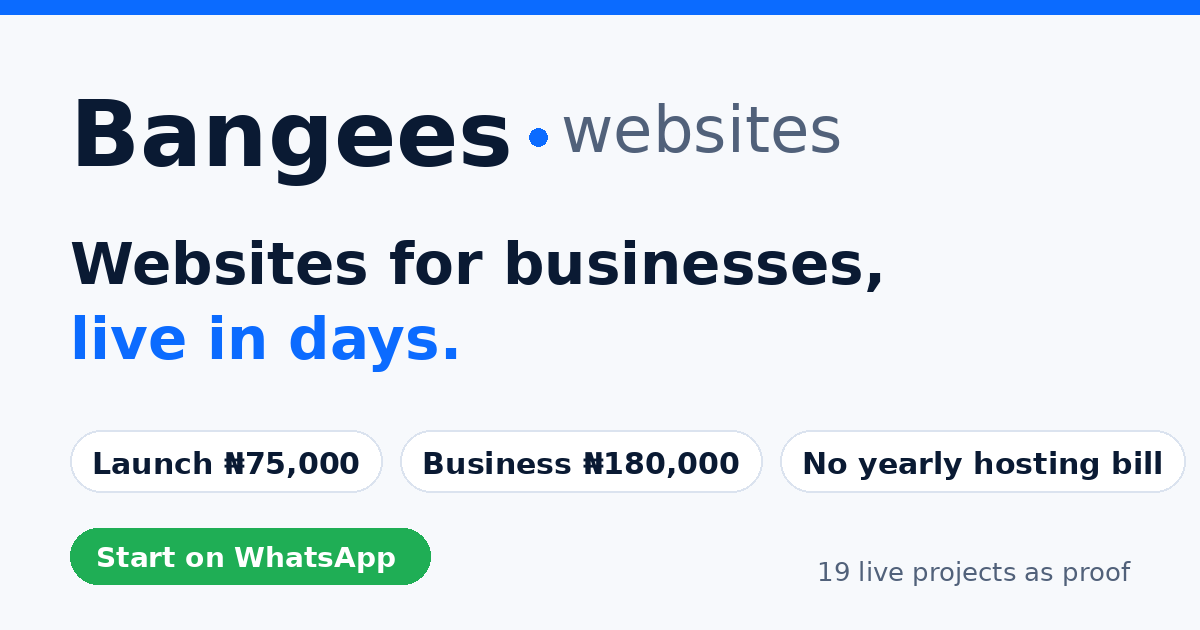
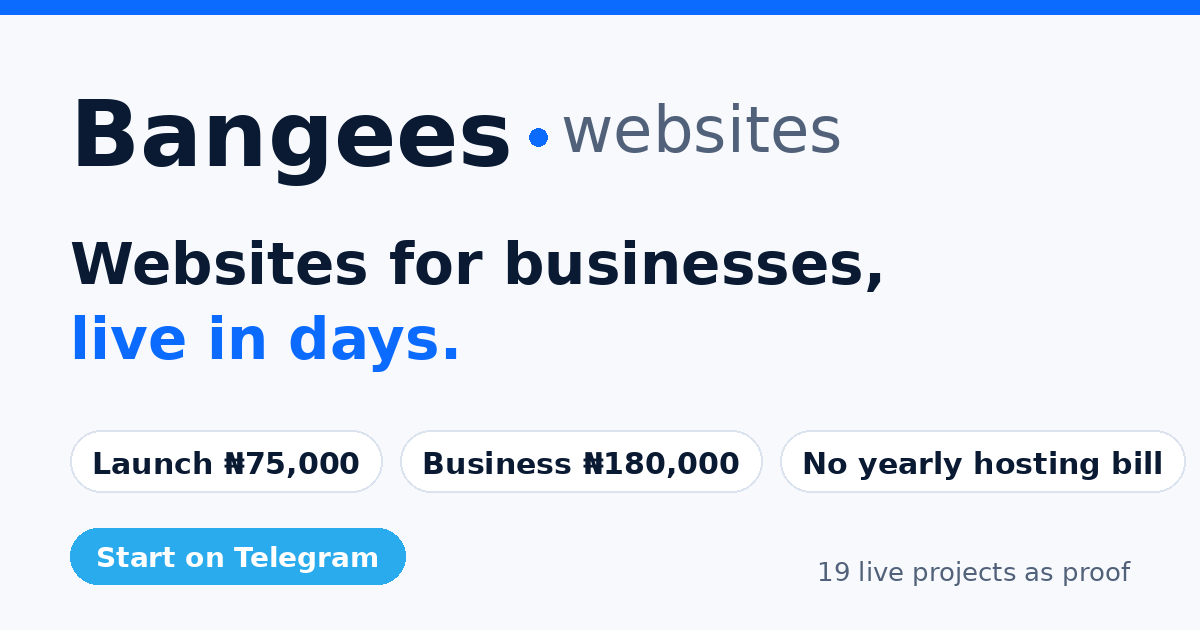
Contact via Telegram (@iambangees) as main: buttons open t.me chat with prefilled package message

Changed region(s): [[0.0617, 0.8143, 0.37, 0.9349]]

diff --git a/site/index.html b/site/index.html
@@ -16,7 +16,7 @@
 <style>
   :root{
     --paper:#f7f9fc; --ink:#0a1a33; --navy:#081226; --muted:#51617a;
-    --accent:#0b6bff; --wa:#1fae55; --line:#dbe3ef; --card:#ffffff;
+    --accent:#0b6bff; --tg:#2aabee; --line:#dbe3ef; --card:#ffffff;
   }
   *{box-sizing:border-box;margin:0;padding:0;}
   body{font-family:system-ui,-apple-system,"Segoe UI",Roboto,sans-serif;background:var(--paper);color:var(--ink);line-height:1.55;}
@@ -25,14 +25,14 @@
   header.top .wrap{display:flex;align-items:center;justify-content:space-between;padding-top:12px;padding-bottom:12px;}
   .logo{font-size:21px;font-weight:800;letter-spacing:-.02em;}
   .logo span{color:var(--accent);}
-  .topcta{background:var(--wa);color:#fff;text-decoration:none;font-weight:700;font-size:14.5px;padding:9px 16px;border-radius:999px;}
+  .topcta{background:var(--tg);color:#fff;text-decoration:none;font-weight:700;font-size:14.5px;padding:9px 16px;border-radius:999px;}
   .hero{padding:52px 0 38px;text-align:center;}
   .hero h1{font-size:clamp(30px,6vw,46px);line-height:1.12;letter-spacing:-.02em;max-width:720px;margin:0 auto;}
   .hero h1 em{font-style:normal;color:var(--accent);}
   .hero p{color:var(--muted);font-size:17.5px;max-width:560px;margin:16px auto 0;}
   .cta-row{display:flex;gap:12px;justify-content:center;flex-wrap:wrap;margin-top:26px;}
   .btn{display:inline-block;text-decoration:none;font-weight:700;font-size:16px;padding:13px 26px;border-radius:999px;}
-  .btn-wa{background:var(--wa);color:#fff;}
+  .btn-tg{background:var(--tg);color:#fff;}
   .btn-ghost{background:var(--card);color:var(--ink);border:1px solid var(--line);}
   .trust{display:flex;gap:8px;justify-content:center;flex-wrap:wrap;margin-top:26px;}
   .trust span{background:var(--card);border:1px solid var(--line);border-radius:999px;padding:6px 14px;font-size:13.5px;color:var(--muted);font-weight:600;}
@@ -49,7 +49,7 @@
   .card .for{color:var(--muted);font-size:14.5px;min-height:44px;}
   .card ul{list-style:none;margin:14px 0 20px;flex:1;}
   .card li{padding:5px 0 5px 26px;position:relative;font-size:15px;}
-  .card li::before{content:"✓";position:absolute;left:0;color:var(--wa);font-weight:800;}
+  .card li::before{content:"✓";position:absolute;left:0;color:var(--tg);font-weight:800;}
   .card .btn{text-align:center;}
   .care{margin-top:16px;background:var(--navy);color:#eaf1ff;border-radius:18px;padding:22px 24px;display:flex;gap:16px;align-items:center;flex-wrap:wrap;justify-content:space-between;}
   .care b{font-size:18px;}
@@ -92,7 +92,7 @@
 <header class="top">
   <div class="wrap">
     <div class="logo">Bangees<span>.</span> websites</div>
-    <a class="topcta wa-link" href="#contact">Chat on WhatsApp</a>
+    <a class="topcta tg-link" href="#contact">Chat on Telegram</a>
   </div>
 </header>
 
@@ -102,7 +102,7 @@
     <h1>Your customers are on their phones. <em>Your business should be too.</em></h1>
     <p>A professional website for your business, live within days. Your services, photos, prices and WhatsApp in one place customers can trust.</p>
     <div class="cta-row">
-      <a class="btn btn-wa wa-link" href="#contact">Start on WhatsApp</a>
+      <a class="btn btn-tg tg-link" href="#contact">Start on Telegram</a>
       <a class="btn btn-ghost" href="#packages">See packages</a>
     </div>
     <div class="trust">
@@ -129,7 +129,7 @@
           <li>Live in 2–3 days</li>
           <li>2 rounds of revisions</li>
         </ul>
-        <a class="btn btn-wa wa-link" data-plan="Launch (₦75,000)" href="#contact">Choose Launch</a>
+        <a class="btn btn-tg tg-link" data-plan="Launch (₦75,000)" href="#contact">Choose Launch</a>
       </div>
       <div class="card pop">
         <div class="badge">MOST POPULAR</div>
@@ -144,7 +144,7 @@
           <li>Live in 5–7 days</li>
           <li>2 rounds of revisions</li>
         </ul>
-        <a class="btn btn-wa wa-link" data-plan="Business (₦180,000)" href="#contact">Choose Business</a>
+        <a class="btn btn-tg tg-link" data-plan="Business (₦180,000)" href="#contact">Choose Business</a>
       </div>
       <div class="card">
         <h3>Business Plus</h3>
@@ -157,7 +157,7 @@
           <li>Custom features quoted upfront, like accounts or a dashboard</li>
           <li>Timeline agreed before we start</li>
         </ul>
-        <a class="btn btn-wa wa-link" data-plan="Business Plus (from ₦300,000)" href="#contact">Talk about Plus</a>
+        <a class="btn btn-tg tg-link" data-plan="Business Plus (from ₦300,000)" href="#contact">Talk about Plus</a>
       </div>
     </div>
     <div class="care">
@@ -172,7 +172,7 @@
   <section>
     <h2>How it works</h2>
     <div class="steps">
-      <div class="step"><div class="n">1</div><h3>We talk</h3><p>Ten minutes on WhatsApp about your business and what the site must do.</p></div>
+      <div class="step"><div class="n">1</div><h3>We talk</h3><p>Ten minutes on Telegram about your business and what the site must do.</p></div>
       <div class="step"><div class="n">2</div><h3>You approve the plan</h3><p>A fixed price and a delivery date, agreed in writing before anything starts.</p></div>
       <div class="step"><div class="n">3</div><h3>50% deposit starts the build</h3><p>Your site is designed and built, and you see progress as it comes together.</p></div>
       <div class="step"><div class="n">4</div><h3>Launch day</h3><p>The site goes live, you pay the balance, and you get a simple walkthrough of how everything works.</p></div>
@@ -229,7 +229,7 @@
       </details>
       <details>
         <summary>What do I need to provide?</summary>
-        <p>Your business name, logo if you have one, photos, your services and prices, and your WhatsApp number. If your wording needs polish, that is included. Your prices and facts always come from you.</p>
+        <p>Your business name, logo if you have one, photos, your services and prices, and your business WhatsApp number (for the chat button on your own site). If your wording needs polish, that is included. Your prices and facts always come from you.</p>
       </details>
       <details>
         <summary>Are there any yearly costs?</summary>
@@ -237,7 +237,7 @@
       </details>
       <details>
         <summary>Can I update the site myself?</summary>
-        <p>On custom builds, yes, an admin panel can be included. On Launch and Business sites, most clients prefer the Care Plan: you send a WhatsApp message and the change is made for you.</p>
+        <p>On custom builds, yes, an admin panel can be included. On Launch and Business sites, most clients prefer the Care Plan: you send a Telegram message and the change is made for you.</p>
       </details>
       <details>
         <summary>I already have Instagram. Why do I need a website?</summary>
@@ -252,9 +252,9 @@
 
   <div class="contact" id="contact">
     <h2>Ready when you are</h2>
-    <p>Send a WhatsApp message with your business name and what you sell. You will get a straight answer on price and delivery date, no pressure.</p>
+    <p>Send a Telegram message with your business name and what you sell. You will get a straight answer on price and delivery date, no pressure.</p>
     <div class="cta-row">
-      <a class="btn btn-wa wa-link" href="#contact">Chat on WhatsApp</a>
+      <a class="btn btn-tg tg-link" href="#contact">Chat on Telegram</a>
       <a class="btn btn-ghost" href="https://x.com/iamBangees" target="_blank" rel="noopener">Message on X</a>
     </div>
   </div>
@@ -285,17 +285,17 @@
 </div>
 
 <script>
-  // === CONFIG: Abubakar's WhatsApp number in international format, digits only (e.g. 2348012345678).
-  // While empty, WhatsApp buttons scroll to the contact section instead of opening a dead link.
-  const WHATSAPP_NUMBER = "";
+  // === CONFIG: Abubakar's Telegram username (no @). Every contact button opens
+  // t.me/<username> with a prefilled message; package buttons name the package.
+  const TELEGRAM_USERNAME = "iambangees";
   document.getElementById("yr").textContent = new Date().getFullYear();
-  if (WHATSAPP_NUMBER) {
-    document.querySelectorAll(".wa-link").forEach(a => {
+  if (TELEGRAM_USERNAME) {
+    document.querySelectorAll(".tg-link").forEach(a => {
       const plan = a.getAttribute("data-plan");
       const msg = plan
         ? "Hello Bangees, I am interested in the " + plan + " package for my business."
         : "Hello Bangees, I would like a website for my business.";
-      a.href = "https://wa.me/" + WHATSAPP_NUMBER + "?text=" + encodeURIComponent(msg);
+      a.href = "https://t.me/" + TELEGRAM_USERNAME + "?text=" + encodeURIComponent(msg);
       a.target = "_blank";
       a.rel = "noopener";
     });

diff --git a/site/sw.js b/site/sw.js
@@ -1,4 +1,4 @@
-const CACHE = "bangees-services-v1";
+const CACHE = "bangees-services-v2";
 const ASSETS = ["./", "./index.html", "./manifest.webmanifest", "./icon-192.png", "./icon-512.png"];
 
 self.addEventListener("install", (e) => {
